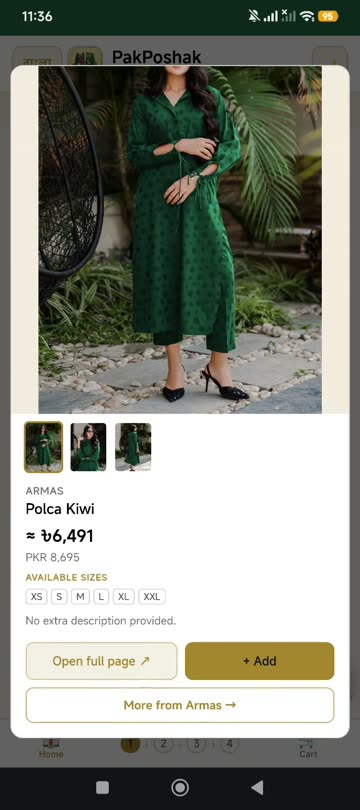
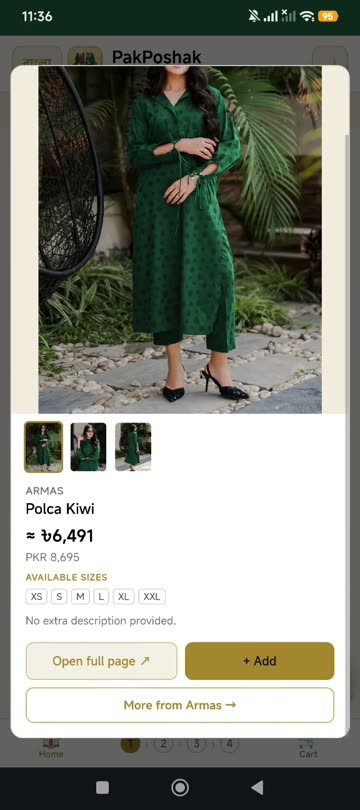
Browse Products video: listed = just tap + Add (not copy-paste)
Per Danish's concept: a listed product is added directly from the popup with + Add (real PKR price + logistics auto-applied); copy-paste is only for non-listed items via Browse Brands. Trimmed the misleading brand-site/copy-paste detour (35s -> 7s, ends on the + Add popup), re-captioned EN/BN, 0:35 -> 0:07 label.

Changed region(s): [[0.9472, 0.1543, 0.9778, 0.9259]]

diff --git a/how-to-video.html b/how-to-video.html
@@ -107,7 +107,7 @@ const VIDS = [
   {id:'intro-android',         grp:'start', dur:'0:41', dev:'android', badge:'🤖 Android'},
   {id:'install-iphone-chrome', grp:'start', dur:'0:17', dev:'ios',     badge:'🍎 iPhone · Chrome'},
   {id:'install-iphone-safari', grp:'start', dur:'0:17', dev:'ios',     badge:'🍎 iPhone · Safari'},
-  {id:'order-browse-products', grp:'more',  dur:'0:35', badge:'🛍️ Browse Products'},
+  {id:'order-browse-products', grp:'more',  dur:'0:07', badge:'🛍️ Browse Products'},
   {id:'order-browse-brands',   grp:'more',  dur:'2:30', badge:'🏷️ Browse Brands'},
   {id:'smart-search',          grp:'more',  dur:'1:22', badge:'🔎 Search'},
 ];